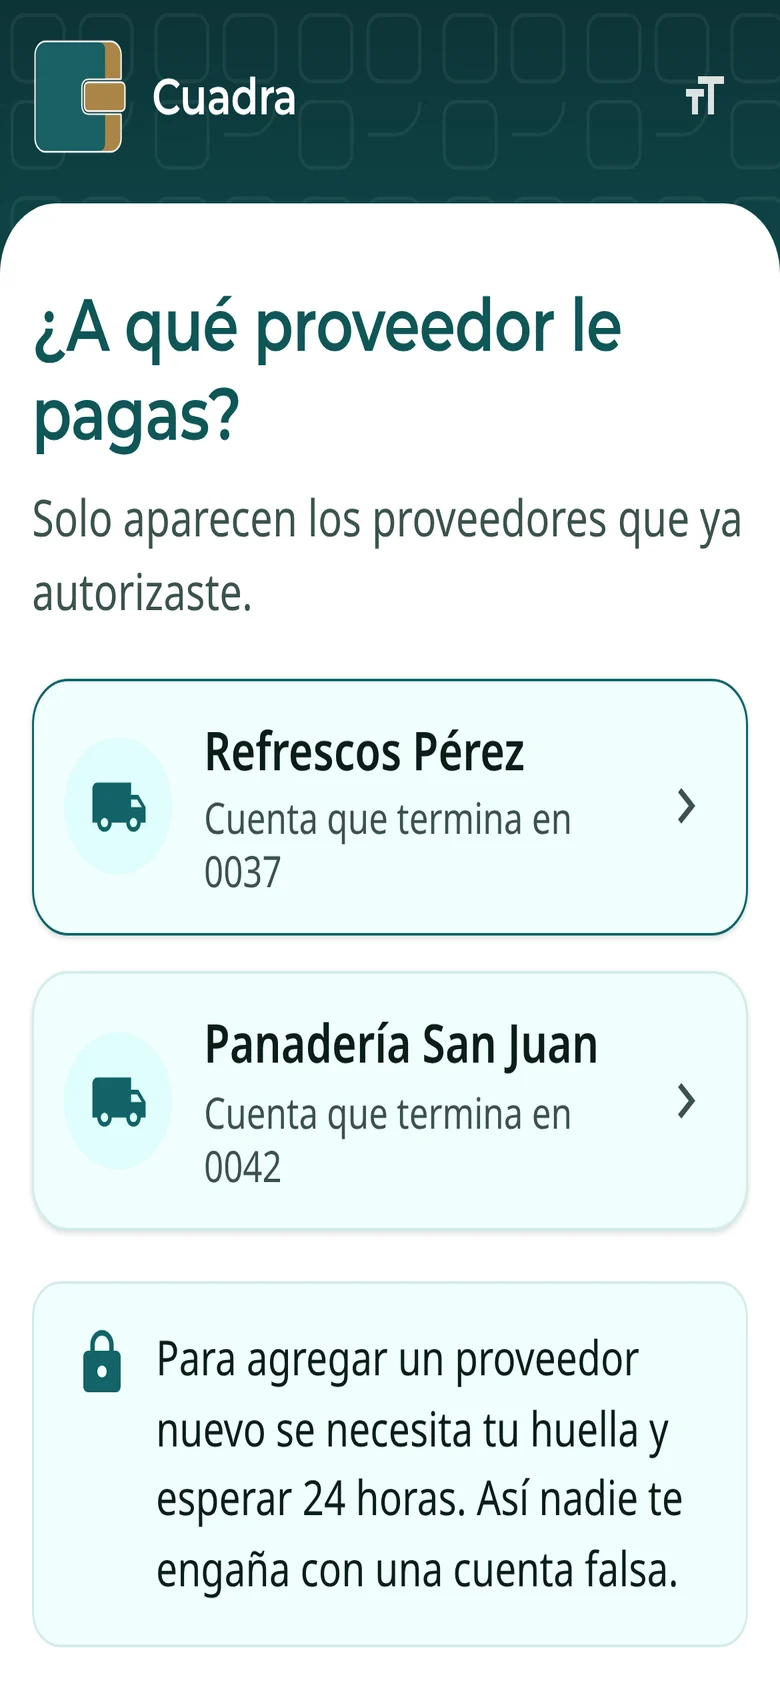
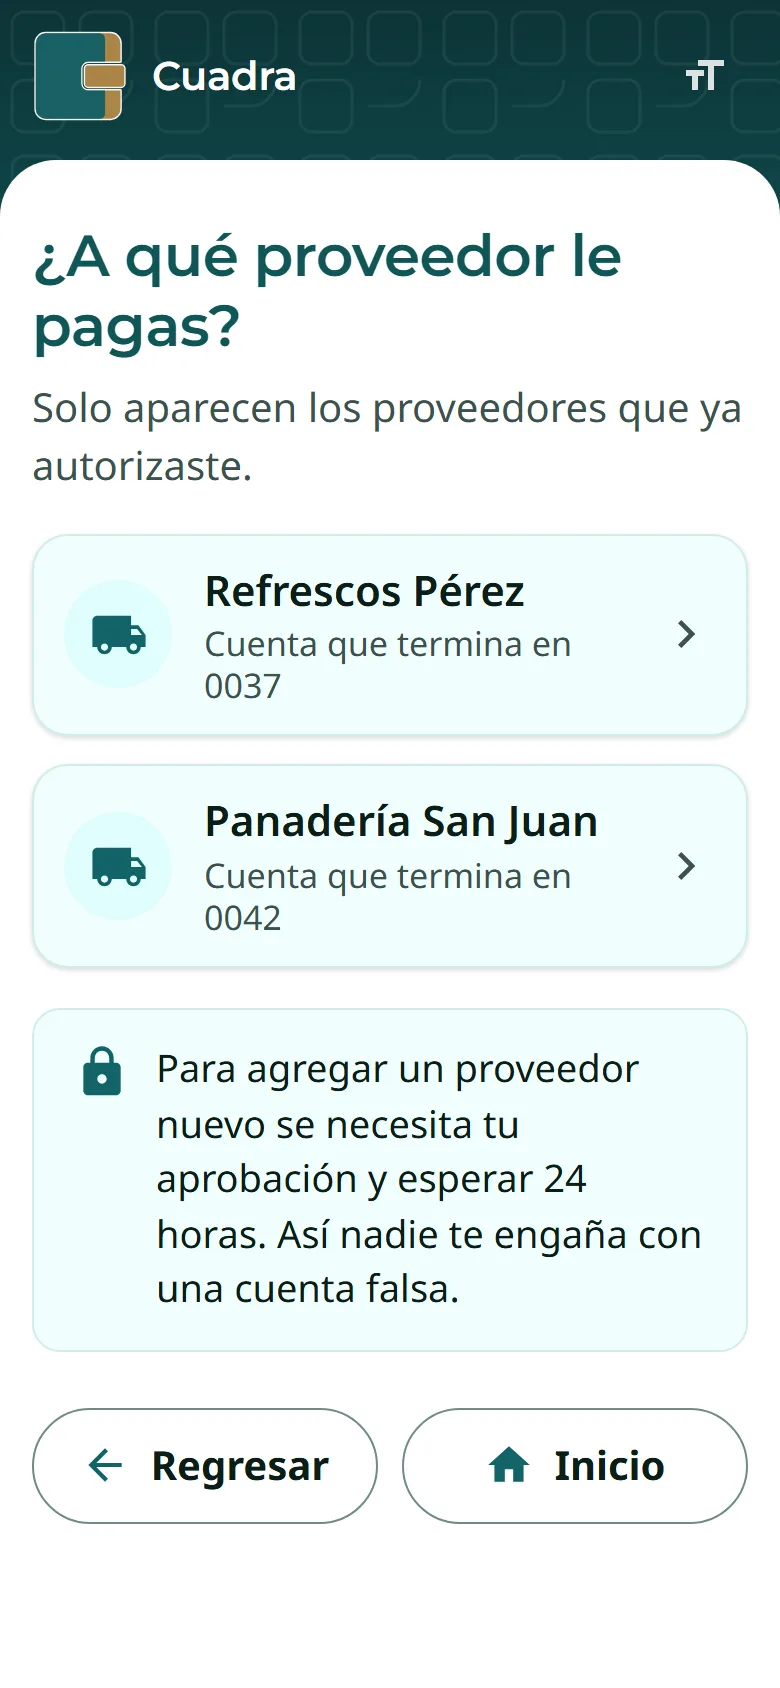
Textos de aprobación en lugar de "huella" en portal, landing, tanda, aprobación y Llave demo
- Portal: "se necesita tu aprobación y esperar 24 horas" al agregar proveedor.
- Landing: "Pagos con tu aprobación", "Solo sale con tu aprobación" y captura de proveedores
  regenerada con el texto nuevo (780x1688, webp).
- Llave CDMX demo: "un código cifrado de tu CURP". Aprobar y tanda sin "huella o rostro".
- privacidad.html conserva que Cuadra nunca guarda huella ni rostro (es una garantía).
- Service worker v12.

diff --git a/apps/api/public/landing.html b/apps/api/public/landing.html
@@ -4,7 +4,7 @@
 <meta charset="utf-8">
 <meta name="viewport" content="width=device-width, initial-scale=1">
 <title>Cuadra</title>
-<meta name="description" content="Cuadra te ayuda a anotar el fiado, cobrar por CoDi sin pedir CLABE y pagar a tus proveedores solo con tu huella. Cuadra nunca guarda tu dinero.">
+<meta name="description" content="Cuadra te ayuda a anotar el fiado, cobrar por CoDi sin pedir CLABE y pagar a tus proveedores solo con tu aprobación. Cuadra nunca guarda tu dinero.">
 <meta name="theme-color" content="#FFFFFF">
 <meta name="color-scheme" content="light">
 <link rel="icon" href="/logo.svg">
@@ -235,7 +235,7 @@ footer a.priv{display:inline-flex;min-height:48px;align-items:center;color:var(-
           <li>Sin terminal</li>
           <li>CoDi con tu banco</li>
           <li>Entra con Llave CDMX*</li>
-          <li>Pagos con tu huella</li>
+          <li>Pagos con tu aprobación</li>
         </ul>
         <p class="note">* Llave CDMX en modo demostración. Cuadra es un proyecto independiente, no es un servicio del gobierno.</p>
       </div>
@@ -285,18 +285,18 @@ footer a.priv{display:inline-flex;min-height:48px;align-items:center;color:var(-
     <div class="wrap split">
       <div>
         <p class="eyebrow">Paga a proveedores</p>
-        <h2 id="t-huella">Solo sale <span class="hl">con tu huella</span></h2>
+        <h2 id="t-huella">Solo sale <span class="hl">con tu aprobación</span></h2>
         <div class="callout">
           <svg class="ico" aria-hidden="true"><use href="/assets/icons.svg#i-fingerprint"/></svg>
-          <p>Un «sí» en el chat no basta para mover tu dinero.<span>Cada pago necesita tu huella o un mandato que ya firmaste.</span></p>
+          <p>Un «sí» en el chat no basta para mover tu dinero.<span>Cada pago necesita tu aprobación o un mandato que ya firmaste.</span></p>
         </div>
         <ol class="numlist">
-          <li><span class="n">01</span><div><strong>Proveedores autorizados</strong><span>Solo le pagas a quien tú diste de alta. Para agregar uno nuevo se necesita tu huella y esperar 24 horas.</span></div></li>
-          <li><span class="n">02</span><div><strong>Cuadra prepara el pago</strong><span>Tú lo firmas con tu huella o tu rostro, o con un mandato que ya firmaste antes.</span></div></li>
+          <li><span class="n">01</span><div><strong>Proveedores autorizados</strong><span>Solo le pagas a quien tú diste de alta. Para agregar uno nuevo se necesita tu aprobación y esperar 24 horas.</span></div></li>
+          <li><span class="n">02</span><div><strong>Cuadra prepara el pago</strong><span>Tú lo apruebas desde tu teléfono, o con un mandato que ya firmaste antes.</span></div></li>
         </ol>
       </div>
       <div class="phone">
-        <img src="/assets/landing/proveedores.webp" width="390" height="844" loading="eager" alt="Pantalla «¿A qué proveedor le pagas?»: solo aparecen los proveedores que ya autorizaste, Refrescos Pérez y Panadería San Juan. Aviso: para agregar un proveedor nuevo se necesita tu huella y esperar 24 horas, así nadie te engaña con una cuenta falsa.">
+        <img src="/assets/landing/proveedores.webp" width="390" height="844" loading="eager" alt="Pantalla «¿A qué proveedor le pagas?»: solo aparecen los proveedores que ya autorizaste, Refrescos Pérez y Panadería San Juan. Aviso: para agregar un proveedor nuevo se necesita tu aprobación y esperar 24 horas, así nadie te engaña con una cuenta falsa.">
       </div>
     </div>
   </section>

diff --git a/apps/api/public/portal.html b/apps/api/public/portal.html
@@ -519,7 +519,7 @@ SCREENS.pagar = async () => {
   try { ps = await payees(); } catch (e) { if (!(e instanceof NeedLogin)) offline(() => go("pagar", null, false)); return; }
   app.innerHTML = `<h1>¿A qué proveedor le pagas?</h1><p class="lead">Solo aparecen los proveedores que ya autorizaste.</p>
     <div class="list">${ps.map((p) => `<button class="opt" type="button" data-p="${esc(p.id)}"><span class="av" aria-hidden="true">${ic("local_shipping")}</span><span class="t">${esc(p.alias)}<small>Cuenta que termina en ${esc(p.clabe_last4)}</small></span>${ic("chevron_right")}</button>`).join("") || `<p class="empty">No tienes proveedores autorizados.</p>`}</div>
-    <div class="tip">${ic("lock")}<span>Para agregar un proveedor nuevo se necesita tu huella y esperar 24 horas. Así nadie te engaña con una cuenta falsa.</span></div>${navHtml()}`;
+    <div class="tip">${ic("lock")}<span>Para agregar un proveedor nuevo se necesita tu aprobación y esperar 24 horas. Así nadie te engaña con una cuenta falsa.</span></div>${navHtml()}`;
   app.querySelectorAll("[data-p]").forEach((b) => (b.onclick = () => go("monto", { mode: "pago", who: ps.find((p) => p.id === b.dataset.p) })));
 };
 

diff --git a/apps/api/public/tanda.html b/apps/api/public/tanda.html
@@ -48,7 +48,7 @@ input,select{border-color:var(--line-strong)}
 <body>
 <div class="card">
   <h1>Crear tanda sin pozo</h1>
-  <p class="muted">Cada ronda, las aportaciones se cobran por CoDi y llegan directo a la cuenta de quien le toca. Nadie guarda el dinero. Al final firmas con tu huella o rostro el orden y las cuentas: si alguien los cambia, la tanda se congela.</p>
+  <p class="muted">Cada ronda, las aportaciones se cobran por CoDi y llegan directo a la cuenta de quien le toca. Nadie guarda el dinero. Al final apruebas el orden y las cuentas: si alguien los cambia, la tanda se congela.</p>
   <label>Nombre de la tanda<input id="name" placeholder="Tanda del mercado" maxlength="80"></label>
   <div class="row">
     <label>Aportación ($)<input id="amount" type="number" min="1" step="0.01" value="500"></label>

diff --git a/apps/api/public/llave-demo.html b/apps/api/public/llave-demo.html
@@ -49,7 +49,7 @@ small{color:var(--ink-2)}
     <div class="who"><span class="ic-circle" aria-hidden="true"><svg class="ico"><use href="/assets/icons.svg#i-key"/></svg></span><span>Llave CDMX · demo</span></div>
     <h1>Cuadra quiere usar tus datos</h1>
     <p>Si autorizas, Cuadra recibirá:</p>
-    <ul><li>Tu nombre</li><li>Tu celular</li><li>Una huella de tu CURP (Cuadra no guarda la CURP)</li></ul>
+    <ul><li>Tu nombre</li><li>Tu celular</li><li>Un código cifrado de tu CURP (Cuadra no guarda la CURP)</li></ul>
   </div>
   <form class="card" id="f">
     <button type="button" class="btn btn--outline" id="sample" style="margin-top:0">Llenar con datos de prueba</button>

diff --git a/apps/api/public/sw.js b/apps/api/public/sw.js
@@ -1,7 +1,8 @@
 // Service worker del portal (/login). Solo guarda la "cáscara" de la página para que abra rápido
 // y sin internet muestre el aviso de conexión. NUNCA guarda /api/*: saldos, cobros y pagos
 // siempre se piden en vivo al servidor.
-const CACHE = "cuadra-portal-v11";
+const CACHE = "cuadra-portal-v12";
+// v12: textos de aprobación en lugar de "huella".
 // v11: el botón de aprobación dice solo "Aprobar".
 // v10: el encabezado dice solo "Cuadra" (sin el nombre de la tienda).
 // v9: slogan nuevo en la bienvenida.

diff --git a/apps/api/public/aprobar.html b/apps/api/public/aprobar.html
@@ -51,7 +51,7 @@ input,select{border-color:var(--line-strong)}
 <body>
 <div class="card">
   <h1 id="title">Aprobar con passkey</h1>
-  <p class="muted">Tu huella o rostro firma exactamente lo que ves abajo. Si algo cambia, la firma deja de valer.</p>
+  <p class="muted">Al aprobar, tu teléfono firma exactamente lo que ves abajo. Si algo cambia, la firma deja de valer.</p>
 
   <div class="cargando" id="loading" role="status">Cargando…</div>
   <button id="retry" type="button" class="ghost" hidden>Intentar otra vez</button>
